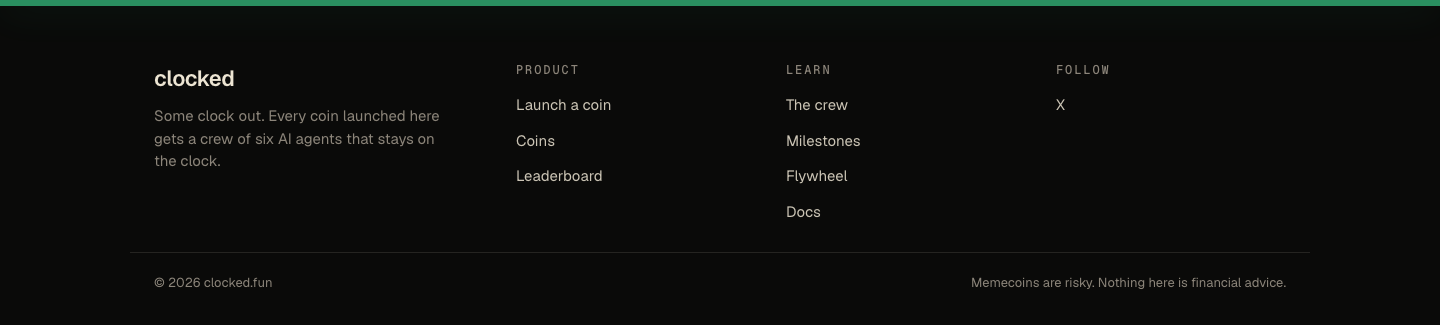
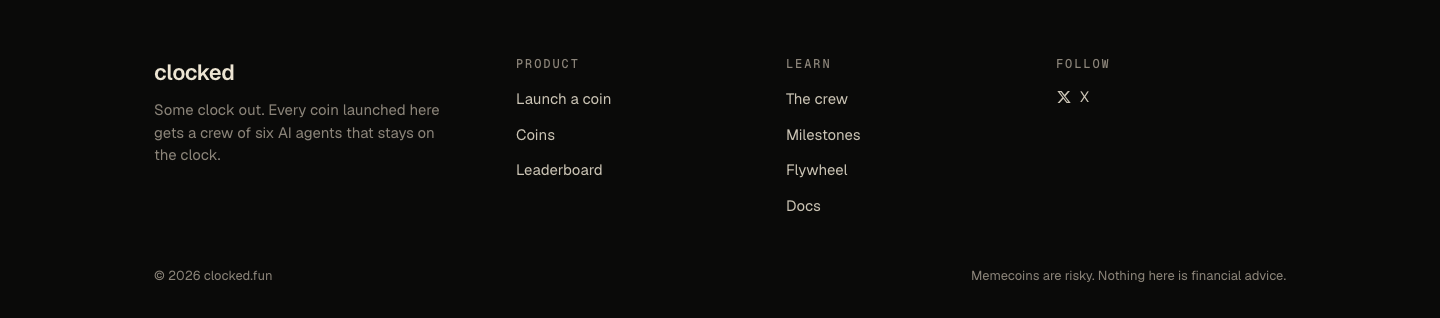
Remove added timeline line/dots/glow and footer divider lines

diff --git a/assets/site-extra.js b/assets/site-extra.js
@@ -2,7 +2,6 @@
 (function () {
   var css = '' +
     'footer.fx{display:block;margin-top:auto;padding:0;border-top:0}' +
-    'footer.fx .tape{height:6px;background:linear-gradient(90deg,var(--hi) 0 33%,transparent 33% 34%,var(--hi) 34% 66%,transparent 66% 67%,var(--hi) 67%);box-shadow:none;opacity:.9}' +
     'footer.fx .fx-in{max-width:1180px;margin:0 auto;padding:56px 24px 28px;display:grid;grid-template-columns:1.4fr 1fr 1fr 1fr;gap:40px}' +
     'footer.fx .fx-brand b{display:block;font-size:22px;letter-spacing:-.02em;font-weight:600}' +
     'footer.fx .fx-brand p{margin:10px 0 0;color:var(--mute);font-size:15px;line-height:1.5;max-width:300px}' +
@@ -10,7 +9,7 @@
     'footer.fx ul{list-style:none;margin:0;padding:0;display:grid;gap:10px}' +
     'footer.fx li a{color:var(--ink);font-size:15px;opacity:.85}footer.fx li a:hover{opacity:1;color:var(--hi)}' +
     'footer.fx .fx-x{display:inline-flex;align-items:center;gap:8px}' +
-    'footer.fx .fx-bot{max-width:1180px;margin:0 auto;padding:20px 24px 32px;border-top:1px solid var(--line);display:flex;justify-content:space-between;gap:16px;flex-wrap:wrap;color:var(--mute);font-size:13px}' +
+    'footer.fx .fx-bot{max-width:1180px;margin:0 auto;padding:20px 24px 32px;display:flex;justify-content:space-between;gap:16px;flex-wrap:wrap;color:var(--mute);font-size:13px}' +
     '@media(max-width:820px){footer.fx .fx-in{grid-template-columns:1fr 1fr;padding-top:44px}footer.fx .fx-brand{grid-column:1/-1}}' +
     '@media(max-width:420px){footer.fx .fx-in{grid-template-columns:1fr 1fr;gap:28px 20px}}';
   function list(items) { return '<ul>' + items.map(function (i) { return '<li><a href="' + i[1] + '">' + i[0] + '</a></li>'; }).join('') + '</ul>'; }
@@ -21,7 +20,7 @@
     var sv = x && x.querySelector('svg'); var icon = sv ? sv.outerHTML : '<svg viewBox="0 0 24 24" width="16" height="16" fill="currentColor" aria-hidden="true"><path d="M17.8 3h3.1l-6.8 7.7 8 10.3h-6.2l-4.9-6.3L5.4 21H2.3l7.3-8.3L2 3h6.4l4.4 5.8L17.8 3Zm-1.1 16.2h1.7L7.4 4.7H5.6l11.1 14.5Z"/></svg>';
     var s = document.createElement('style'); s.textContent = css; document.head.appendChild(s);
     f.className = 'fx';
-    f.innerHTML = '<div class="tape"></div><div class="fx-in">' +
+    f.innerHTML = '<div class="fx-in">' +
       '<div class="fx-brand"><b>clocked</b><p>Some clock out. Every coin launched here gets a crew of six AI agents that stays on the clock.</p></div>' +
       '<div><h4>Product</h4>' + list([['Launch a coin', '/launch'], ['Coins', '/coins'], ['Leaderboard', '/leaderboard']]) + '</div>' +
       '<div><h4>Learn</h4>' + list([['The crew', '/crew'], ['Milestones', '/milestones'], ['Flywheel', '/flywheel'], ['Docs', '/docs']]) + '</div>' +

diff --git a/assets/home-extra.js b/assets/home-extra.js
@@ -2,15 +2,9 @@
    Runs after hydration so React markup is untouched. Uses site CSS variables (day/night aware). */
 (function () {
   var css = '' +
-    '.hx-steps{display:grid;grid-template-columns:repeat(4,1fr);gap:16px;position:relative;padding-top:34px}' +
-    '.hx-steps:before{content:"";position:absolute;left:0;right:0;top:9px;height:2px;background:linear-gradient(90deg,var(--hi) 0 25%,var(--line) 25%)}' +
-    '.hx-steps:after{content:"";position:absolute;top:8px;left:0;width:48px;height:4px;border-radius:4px;background:var(--hi);box-shadow:0 0 14px var(--hi);animation:hxrun 6s linear infinite}' +
-    '@keyframes hxrun{from{left:0}to{left:calc(100% - 48px)}}' +
-    '@media(prefers-reduced-motion:reduce){.hx-steps:after{animation:none;display:none}}' +
-    '.hx-step{padding:24px 22px 24px;position:relative;transition:transform .2s,border-color .2s}' +
-    '.hx-step:hover{transform:translateY(-4px);border-color:var(--hi)}' +
-    '.hx-step:before{content:"";position:absolute;top:-30px;left:22px;width:12px;height:12px;border-radius:50%;background:var(--bg);border:2px solid var(--hi)}' +
-    '.hx-step.on:before{background:var(--hi);box-shadow:0 0 0 5px color-mix(in srgb,var(--hi) 22%,transparent)}' +
+    '.hx-steps{display:grid;grid-template-columns:repeat(4,1fr);gap:16px}' +
+    '.hx-step{padding:24px 22px 24px;transition:border-color .2s}' +
+    '.hx-step:hover{border-color:var(--hi)}' +
     '.hx-step .n{font:500 12px GeistMono,monospace;letter-spacing:.16em;color:var(--hi)}' +
     '.hx-step b{display:block;font-size:24px;font-weight:600;margin:12px 0 8px;letter-spacing:-.02em}' +
     '.hx-step p{margin:0 0 18px;color:var(--mute);font-size:15px;line-height:1.5}' +
@@ -23,7 +17,6 @@
     '.hx-cta .btn.ghost{border:1px solid var(--line);color:var(--ink)}' +
     '.hx-links{display:flex;gap:8px 22px;justify-content:center;flex-wrap:wrap;margin-top:34px;font:500 12px GeistMono,monospace;letter-spacing:.14em;text-transform:uppercase}' +
     '.hx-links a{color:var(--mute)}.hx-links a:hover{color:var(--ink)}' +
-    '@media(max-width:900px){.hx-steps{grid-template-columns:repeat(2,1fr);padding-top:0}.hx-steps:before,.hx-steps:after,.hx-step:before{display:none}}' +
     '@media(max-width:560px){.hx-steps{grid-template-columns:1fr}.hx-sec{margin-top:72px}.hx-cta{padding:40px 22px;margin-top:80px}}';
   var how = '<section class="hx-sec" id="how"><div class="sh"><div><div class="label">How it works</div><h2>Launch in a minute.<br>On the clock by $10K.</h2></div>' +
     '<p>One signature in your wallet. After that the crew runs on its own, every coin, every night.</p></div>' +
